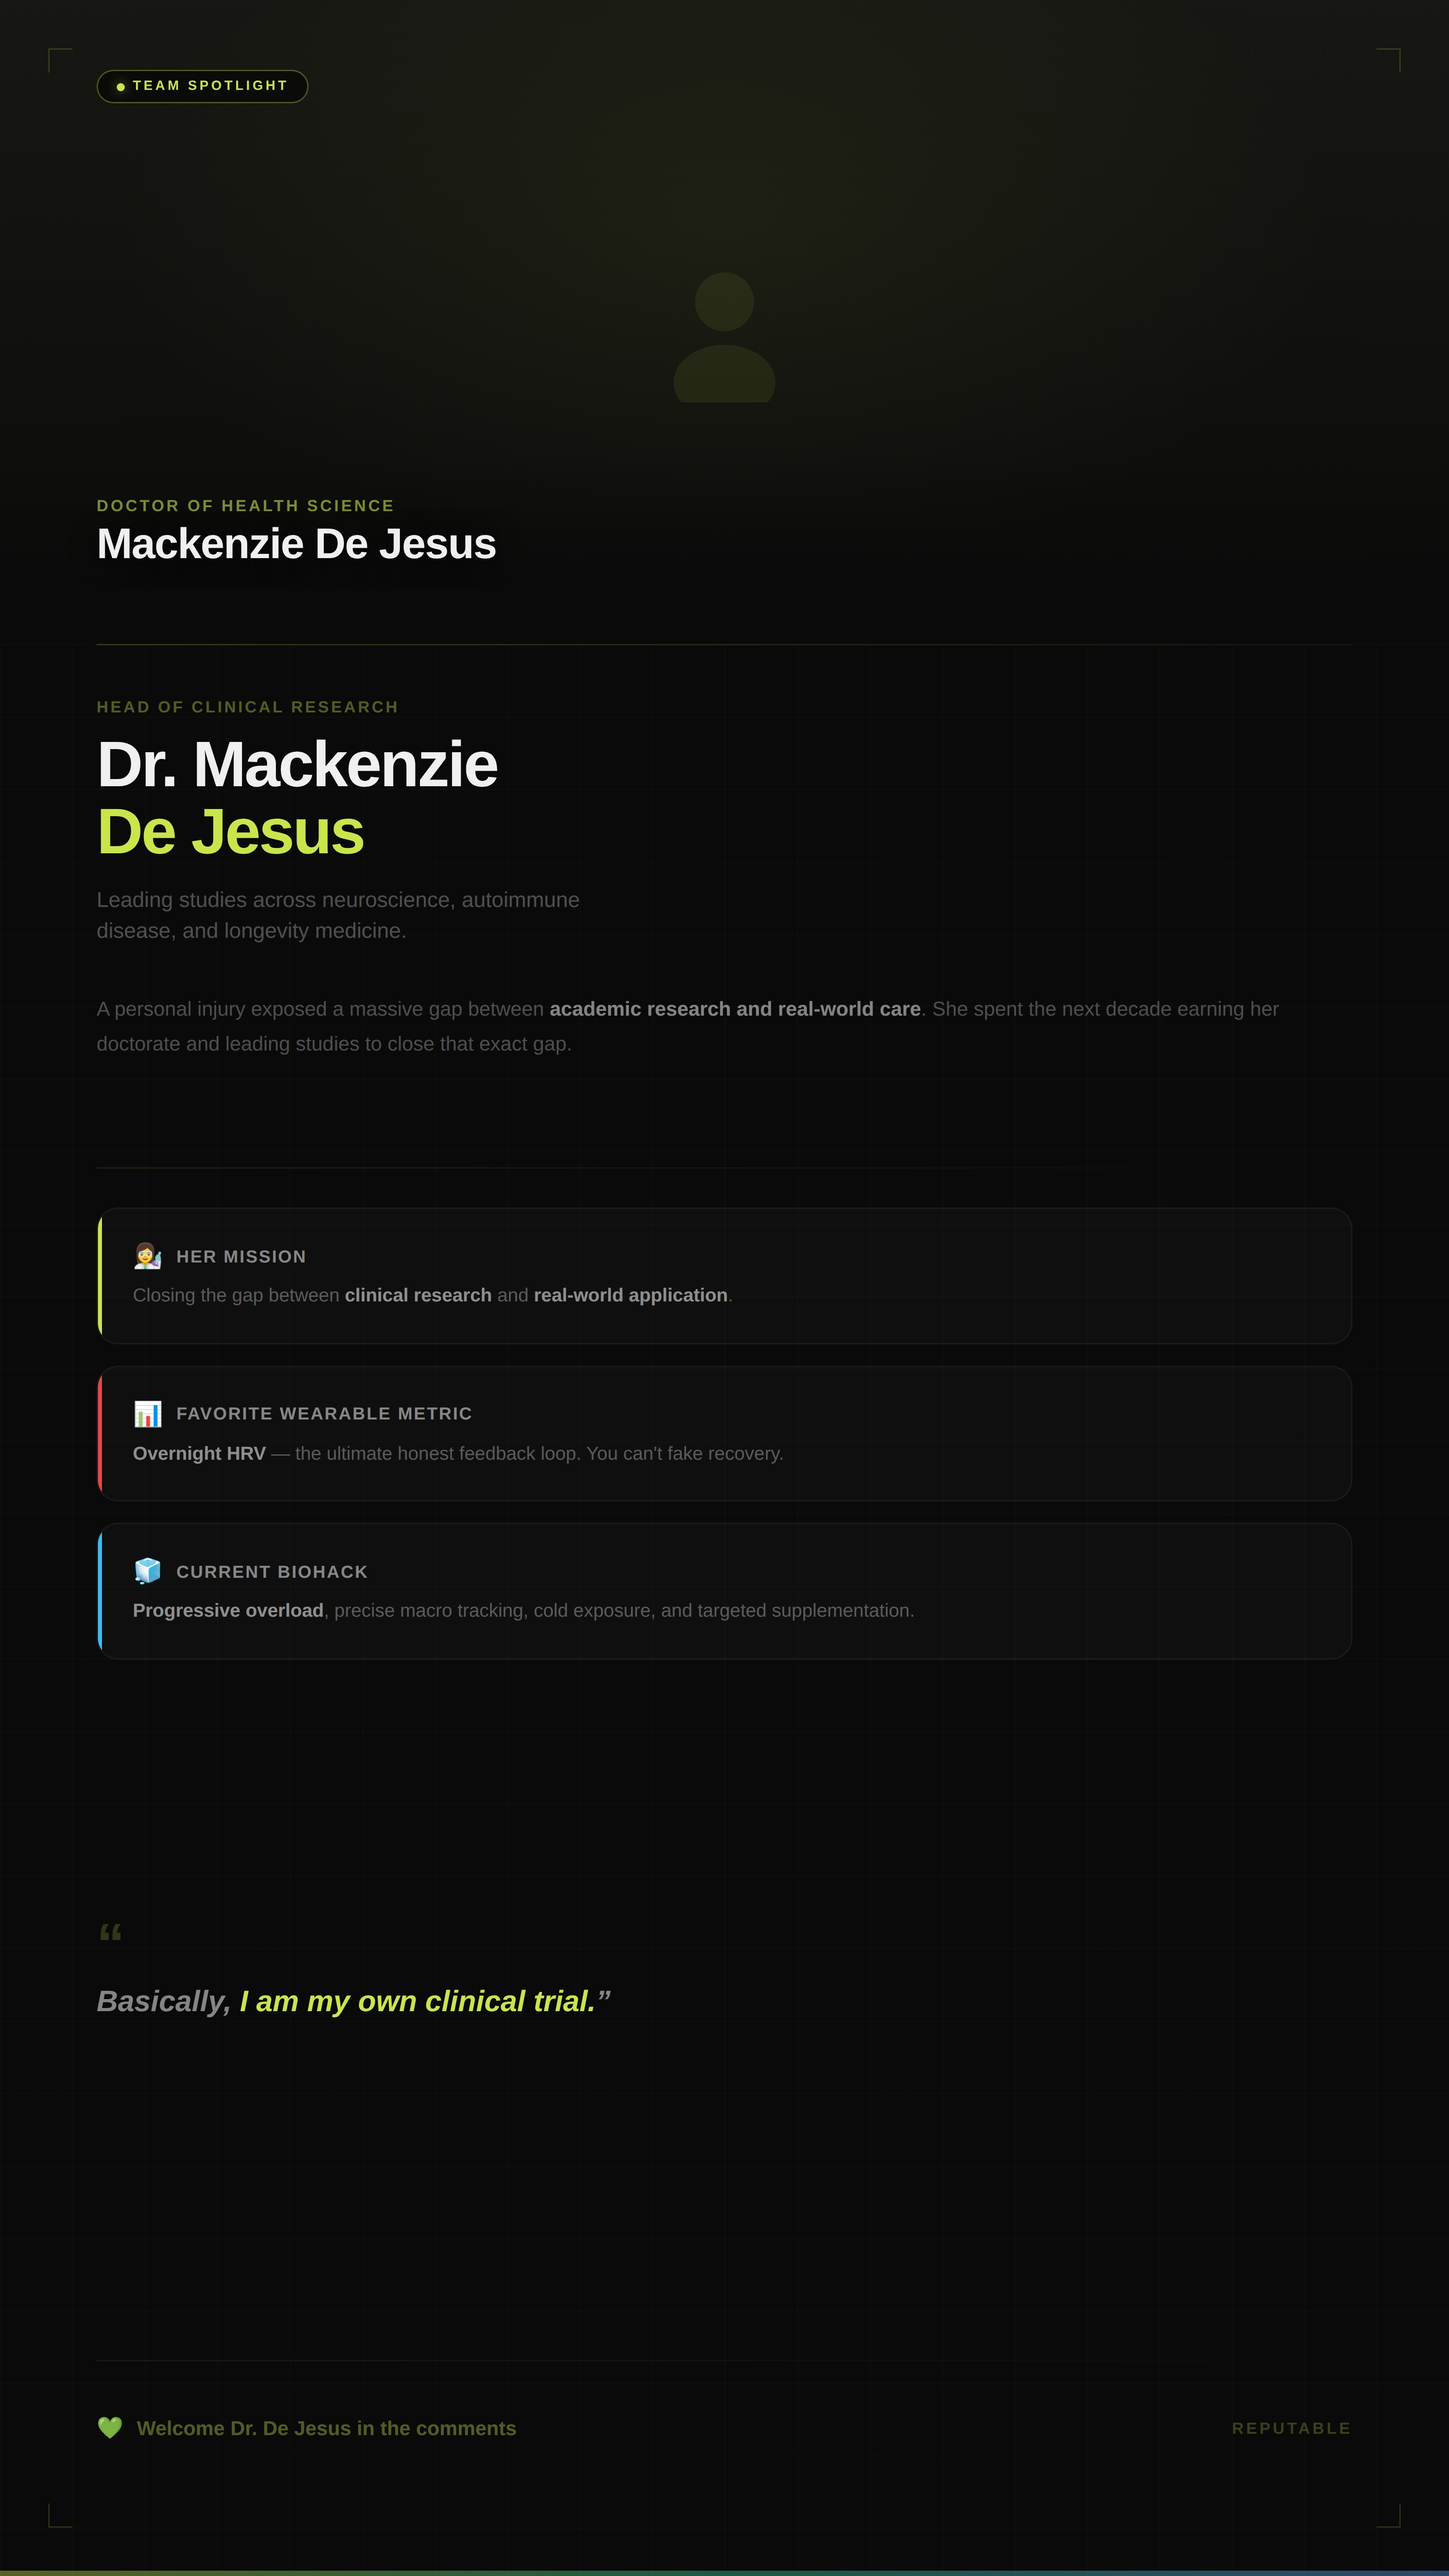
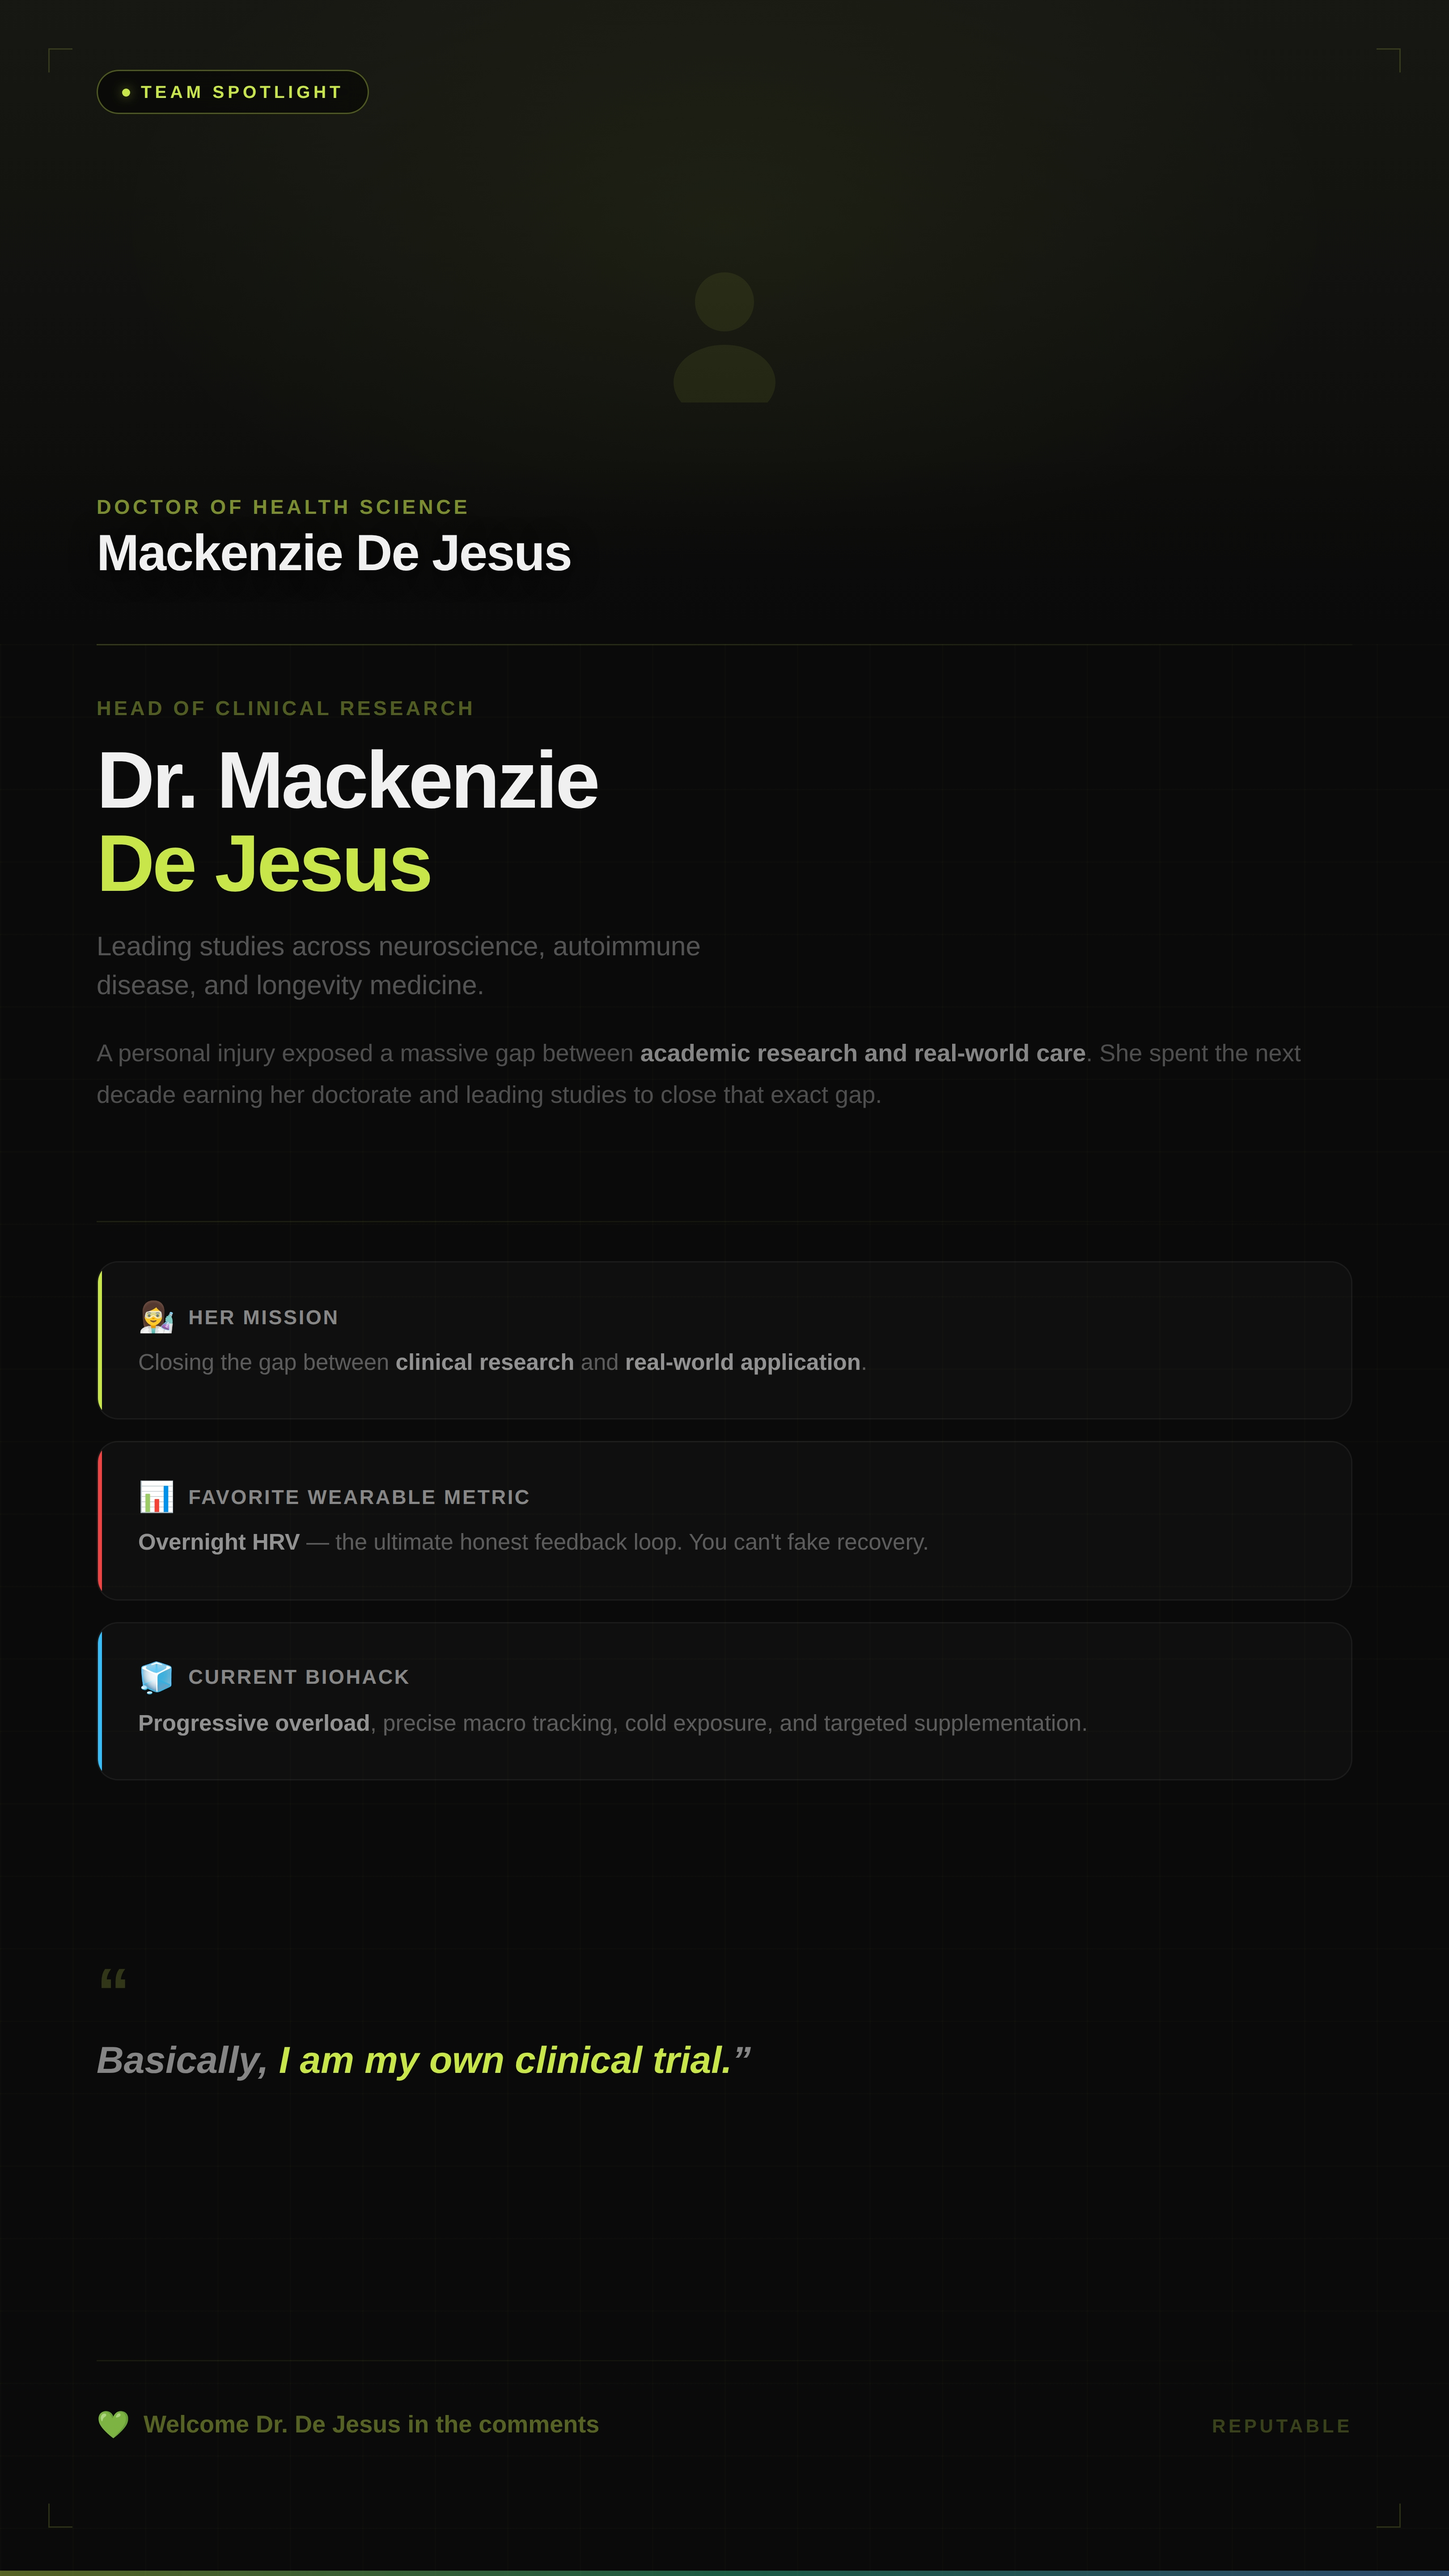
Increase text sizes across both team spotlight versions
Vertical (1080x1920): name 48→60px, role 12→15px, title 16→20px,
bio 15→18px, cards 14→17px, quote 22→28px, CTA 15→18px, badge 10→13px

Square (1080x1080): name 42→52px, role 11→14px, subtitle 14→17px,
cards 12.5→15px, quote 19→24px, CTA 13→15px

Repositioned elements to accommodate larger text without overflow.

https://claude.ai/code/session_01TfrrBTyPYsf3Z7Zsrx7aQ5

diff --git a/team-spotlight-mackenzie.html b/team-spotlight-mackenzie.html
@@ -104,8 +104,8 @@
   .badge-pill {
     display: inline-flex;
     align-items: center;
-    gap: 6px;
-    padding: 6px 14px;
+    gap: 8px;
+    padding: 8px 18px;
     border: 1px solid rgba(200,230,74,0.35);
     border-radius: 100px;
     background: rgba(0,0,0,0.5);
@@ -121,7 +121,7 @@
   }
 
   .badge-text {
-    font-size: 10px;
+    font-size: 13px;
     font-weight: 700;
     letter-spacing: 0.2em;
     color: #c8e64a;
@@ -137,16 +137,16 @@
   }
 
   .photo-name-overlay .dr {
-    font-size: 12px;
+    font-size: 15px;
     font-weight: 700;
     letter-spacing: 0.15em;
     color: rgba(200,230,74,0.6);
     text-transform: uppercase;
-    margin-bottom: 4px;
+    margin-bottom: 6px;
   }
 
   .photo-name-overlay .pname {
-    font-size: 32px;
+    font-size: 38px;
     font-weight: 800;
     color: #f0f0f0;
     letter-spacing: -0.02em;
@@ -173,16 +173,16 @@
   }
 
   .role-label {
-    font-size: 12px;
+    font-size: 15px;
     font-weight: 600;
     letter-spacing: 0.14em;
     color: rgba(200,230,74,0.4);
     text-transform: uppercase;
-    margin-bottom: 12px;
+    margin-bottom: 14px;
   }
 
   .name {
-    font-size: 48px;
+    font-size: 60px;
     font-weight: 800;
     line-height: 1.04;
     letter-spacing: -0.03em;
@@ -194,20 +194,20 @@
   .name .last { color: #c8e64a; }
 
   .title {
-    font-size: 16px;
+    font-size: 20px;
     font-weight: 500;
     color: rgba(255,255,255,0.3);
-    margin-top: 14px;
+    margin-top: 16px;
     line-height: 1.45;
   }
 
   /* ── Bio blurb ─────────────────────────────────── */
   .bio {
     position: absolute;
-    top: 740px;
+    top: 770px;
     left: 72px;
     right: 72px;
-    font-size: 15px;
+    font-size: 18px;
     font-weight: 400;
     line-height: 1.7;
     color: rgba(255,255,255,0.28);
@@ -224,12 +224,12 @@
     height: 1px;
     background: linear-gradient(90deg, rgba(200,230,74,0.1), transparent);
   }
-  .scan-line.s1 { top: 870px; }
+  .scan-line.s1 { top: 910px; }
 
   /* ── Spotlight cards ───────────────────────────── */
   .cards {
     position: absolute;
-    top: 900px;
+    top: 940px;
     left: 72px;
     right: 72px;
     display: flex;
@@ -238,7 +238,7 @@
   }
 
   .card {
-    padding: 24px 26px;
+    padding: 28px 30px;
     background: rgba(255,255,255,0.025);
     border: 1px solid rgba(255,255,255,0.05);
     border-radius: 16px;
@@ -266,11 +266,11 @@
   }
 
   .card-icon {
-    font-size: 18px;
+    font-size: 22px;
   }
 
   .card-label {
-    font-size: 13px;
+    font-size: 15px;
     font-weight: 700;
     letter-spacing: 0.08em;
     color: rgba(255,255,255,0.5);
@@ -278,7 +278,7 @@
   }
 
   .card-body {
-    font-size: 14px;
+    font-size: 17px;
     font-weight: 400;
     color: rgba(255,255,255,0.32);
     line-height: 1.55;
@@ -291,13 +291,13 @@
   /* ── Pull quote ────────────────────────────────── */
   .quote-area {
     position: absolute;
-    top: 1428px;
+    top: 1460px;
     left: 72px;
     right: 72px;
   }
 
   .quote-mark {
-    font-size: 42px;
+    font-size: 50px;
     font-weight: 800;
     color: rgba(200,230,74,0.2);
     line-height: 1;
@@ -305,7 +305,7 @@
   }
 
   .quote-text {
-    font-size: 22px;
+    font-size: 28px;
     font-weight: 600;
     font-style: italic;
     color: rgba(255,255,255,0.5);
@@ -339,16 +339,16 @@
     gap: 10px;
   }
 
-  .cta-icon { font-size: 16px; }
+  .cta-icon { font-size: 20px; }
 
   .cta-text {
-    font-size: 15px;
+    font-size: 18px;
     font-weight: 600;
     color: rgba(200,230,74,0.4);
   }
 
   .brand {
-    font-size: 12px;
+    font-size: 14px;
     font-weight: 700;
     letter-spacing: 0.16em;
     text-transform: uppercase;

diff --git a/team-spotlight-mackenzie-sq.html b/team-spotlight-mackenzie-sq.html
@@ -63,7 +63,7 @@
     flex-shrink: 0;
   }
   .label-text {
-    font-size: 11px;
+    font-size: 13px;
     font-weight: 700;
     letter-spacing: 0.18em;
     color: #c8e64a;
@@ -75,7 +75,7 @@
     background: linear-gradient(90deg, rgba(200,230,74,0.3), transparent);
   }
   .label-right {
-    font-size: 10px;
+    font-size: 12px;
     font-weight: 500;
     letter-spacing: 0.1em;
     color: rgba(200,230,74,0.3);
@@ -150,7 +150,7 @@
   }
 
   .role-label {
-    font-size: 11px;
+    font-size: 14px;
     font-weight: 600;
     letter-spacing: 0.14em;
     color: rgba(200,230,74,0.4);
@@ -159,7 +159,7 @@
   }
 
   .name {
-    font-size: 42px;
+    font-size: 52px;
     font-weight: 800;
     line-height: 1.04;
     letter-spacing: -0.03em;
@@ -168,7 +168,7 @@
   .name .last { color: #c8e64a; }
 
   .subtitle {
-    font-size: 14px;
+    font-size: 17px;
     font-weight: 500;
     color: rgba(255,255,255,0.3);
     margin-top: 12px;
@@ -178,7 +178,7 @@
   /* ── Compact cards (horizontal) ────────────────── */
   .cards {
     position: absolute;
-    top: 548px;
+    top: 560px;
     left: 72px;
     right: 72px;
     display: flex;
@@ -207,13 +207,13 @@
   .card.c3::before { background: #38bdf8; }
 
   .card-icon {
-    font-size: 20px;
+    font-size: 24px;
     margin-bottom: 10px;
     display: block;
   }
 
   .card-label {
-    font-size: 11px;
+    font-size: 13px;
     font-weight: 700;
     letter-spacing: 0.08em;
     color: rgba(255,255,255,0.5);
@@ -222,7 +222,7 @@
   }
 
   .card-body {
-    font-size: 12.5px;
+    font-size: 15px;
     font-weight: 400;
     color: rgba(255,255,255,0.3);
     line-height: 1.5;
@@ -235,14 +235,14 @@
   /* ── Pull quote ────────────────────────────────── */
   .quote-area {
     position: absolute;
-    top: 810px;
+    top: 830px;
     left: 120px;
     right: 120px;
     text-align: center;
   }
 
   .quote-mark {
-    font-size: 32px;
+    font-size: 40px;
     font-weight: 800;
     color: rgba(200,230,74,0.2);
     line-height: 1;
@@ -250,7 +250,7 @@
   }
 
   .quote-text {
-    font-size: 19px;
+    font-size: 24px;
     font-weight: 600;
     font-style: italic;
     color: rgba(255,255,255,0.5);
@@ -274,14 +274,14 @@
     align-items: center;
     gap: 8px;
   }
-  .cta-icon { font-size: 14px; }
+  .cta-icon { font-size: 16px; }
   .cta-text {
-    font-size: 13px;
+    font-size: 15px;
     font-weight: 600;
     color: rgba(200,230,74,0.4);
   }
   .brand {
-    font-size: 11px;
+    font-size: 13px;
     font-weight: 700;
     letter-spacing: 0.16em;
     text-transform: uppercase;
